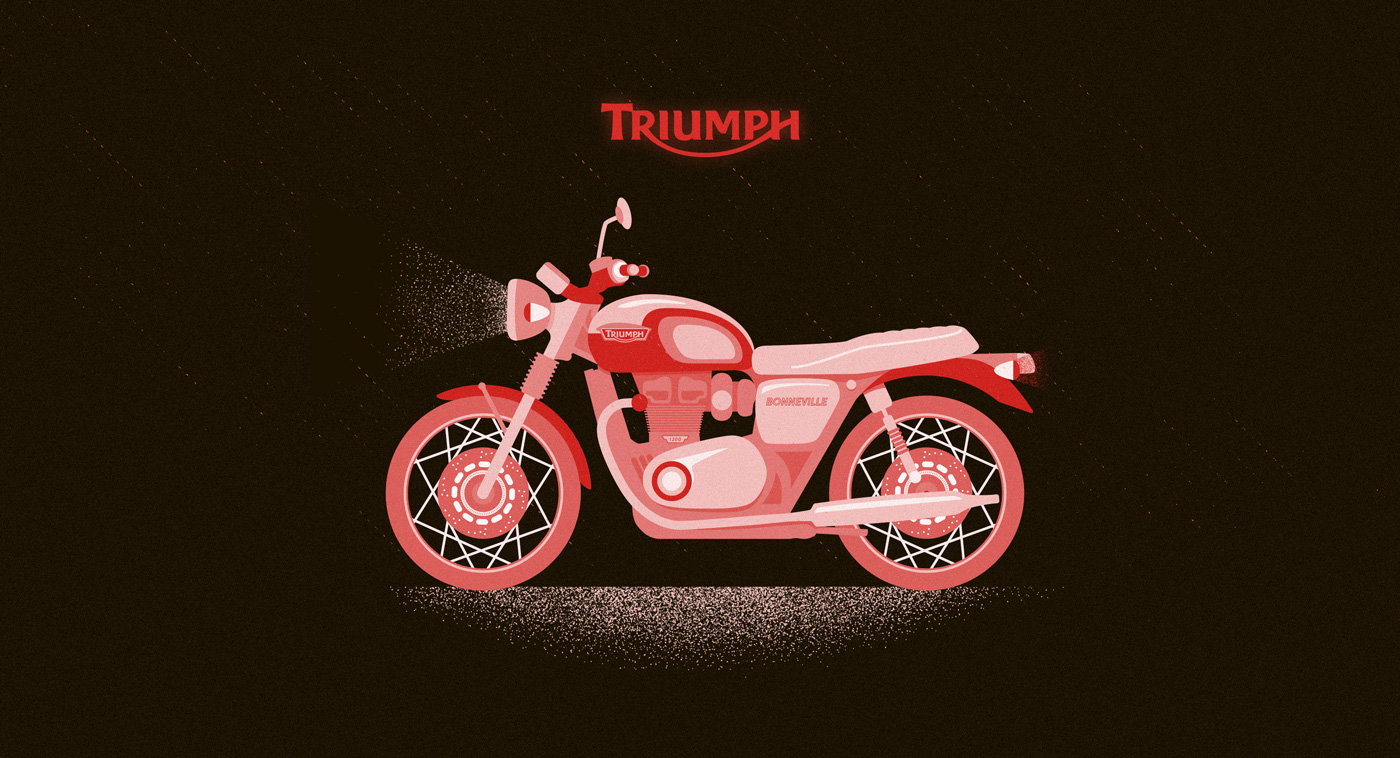
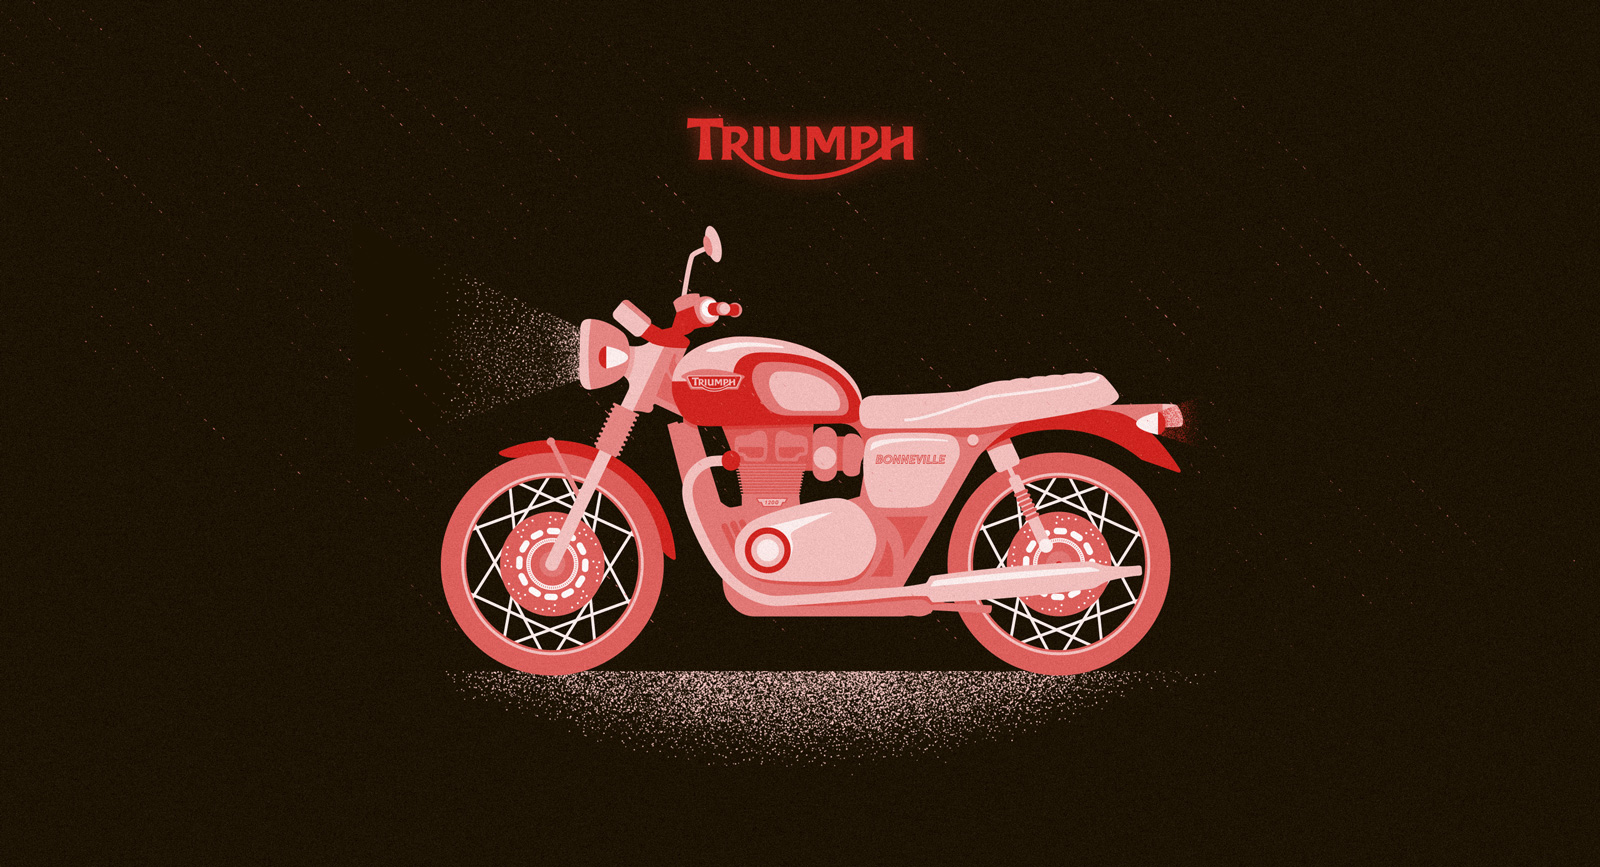
d

Changed region(s): [[0.3686, 0.7889, 0.6757, 0.8496]]

diff --git a/tidbits.html b/tidbits.html
@@ -135,7 +135,7 @@
                     <div class="container">
 
                         <div class="one">
-                            <a href="images/projects/tidbits/moto_closeup.jpg" class="image-link"><img class="has-animation" data-delay="40" src="images/projects/print_shop/print_shop_trivia.jpg" alt="Image Title"></a>
+                            <a href="images/projects/tidbits/moto_closeup.jpg" class="image-link"><img class="has-animation" data-delay="40" src="images/projects/tidbits/moto_closeup.jpg" alt="Image Title"></a>
                         </div>
 
                     </div>
